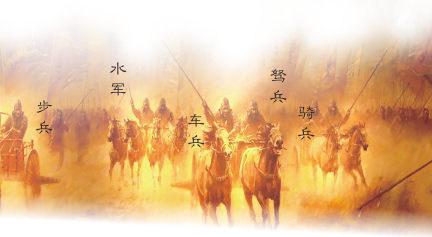
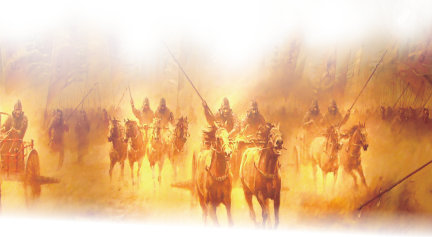
关公点兵：动效

diff --git a/public/apps/guangong/js/arm.js b/public/apps/guangong/js/arm.js
@@ -25,7 +25,7 @@ var arm = {
 		}else{
 			$('.defence-text').hide().removeClass('fadeInDown animated');
 		}
-		
+
 		//履军职任务列表
 		if($swiper.find('.jobs').length){
 			setTimeout(function(){
@@ -44,8 +44,53 @@ var arm = {
 			$('.jobs li').css({'visibility': 'hidden'}).removeClass('fadeIn animated');
 		}
 	},
+	/**
+	 * 循环动画，执行一次就好了，不用重复执行
+	 */
+	'interval': function(){
+		//兵种文字
+		if($('.arm-names').length){
+			setInterval(function(){
+				var $armNames = $('.arm-names');
+				$armNames.find('.layer').removeClass('tada animated');
+				//随机出一个0-5的整数
+				var num = Math.floor(Math.random()*6);
+				$armNames.find('.layer:eq('+num+')').addClass('tada animated');
+			}, 1000);
+		}
+
+		//摇一摇标识
+		if($('.shake').length){
+			setInterval(function(){
+				var $shake = $('.shake');
+				if($shake.hasClass('animated')){
+					$shake.removeClass('tada animated');
+				}else{
+					$shake.addClass('tada animated')
+				}
+			}, 1000);
+		}
+	},
+	'setArm': function(){
+		$.ajax({
+			'type': 'GET',
+			'url': system.url('api/arm/set'),
+			'dataType': 'json',
+			'cache': false,
+			'success': function(resp){
+				if(resp.status){
+					var $arm6 = $('#arm-6');
+					$arm6.find('.arms,.shake,.arm-names').remove();
+					$arm6.append('<div class="layer result flip animated"><img src="'+resp.data.picture.url+'"></div>');
+				}else{
+					common.toast($resp.message, 'error');
+				}
+			}
+		});
+	},
 	'init': function(){
 		this.animate();
+		this.interval();
 		common.swiper.on('SlideChangeStart', this.animate)
 	}
 };

diff --git a/public/apps/guangong/css/arm.css b/public/apps/guangong/css/arm.css
@@ -4,7 +4,7 @@
 .subtitle{top:168px;right:33px;font-size:14px;width:14px;color:rgba(0,0,0,0.8);line-height:1.2;z-index:100}
 .dadao{width:45px;height:382px;left:50%;top:50%;margin-left:-30px;margin-top:-196px}
 .title{width:20px;height:168px;left:50%;top:50%;margin-left:10px;margin-top:-25px}
-.description{bottom:50px;left:50%;margin-left:-40%;width:80%}
+.description{bottom:30px;left:50%;margin-left:-40%;width:80%}
 .description p{text-align:left;font-size:12px;line-height:1.5}
 .description p.center{text-align:center}
 .dialog-content{padding:45px 30px}
@@ -25,10 +25,15 @@
 #arm-4 .shake{width:80px;left:50%;bottom:105px;margin-left:-40px;}
 
 #arm-6 .mountain{top:0;width:100%;height:308px;left:0}
-#arm-6 .arms{width:100%;height:237px;top:50%;margin-top:-240px;left:0}
+#arm-6 .arms{width:100%;top:100px;left:0}
 #arm-6 .arm-text{width:70%;left:50%;top:50px;margin-left:-40%}
 #arm-6 .shake{width:135px;left:50%;top:50%;margin-left:-67px;margin-top:60px}
 #arm-6 .result{width:80%;left:10%;top:50%;margin-top:-102px}
+#arm-6 .bubing-text{top:163px;left:50%;margin-left:-42%}
+#arm-6 .shuijun-text{top:129px;left:50%;margin-left:-26%}
+#arm-6 .chebing-text{top:170px;left:50%;margin-left:-7%}
+#arm-6 .nubing-text{top:134px;left:50%;margin-left:12%}
+#arm-6 .qibing-text{top:165px;left:50%;margin-left:22%}
 #arm-dialog .dialog-content{background:url(../images/arm/caozhi-bg.png) no-repeat center center transparent;background-size:100% 100%}
 #arm-dialog h1{font-size:16px;margin-bottom:26px;text-align:center}
 #arm-dialog .arm-description img{width:100%}

diff --git a/application/guangong/modules/frontend/views/arm/set_arm.php b/application/guangong/modules/frontend/views/arm/set_arm.php
@@ -26,6 +26,13 @@ $this->appendCss($this->appAssets('css/arm.css'));
 			<?php }else{?>
 				<div class="layer arms"><img src="<?php echo $this->appAssets('images/arm/arms.png')?>"></div>
 				<div class="layer shake"><img src="<?php echo $this->appAssets('images/arm/shake.png')?>"></div>
+				<div class="arm-names">
+					<div class="layer bubing-text"><img src="<?php echo $this->appAssets('images/arm/bubing-text.png')?>"></div>
+					<div class="layer shuijun-text"><img src="<?php echo $this->appAssets('images/arm/shuijun-text.png')?>"></div>
+					<div class="layer qibing-text"><img src="<?php echo $this->appAssets('images/arm/qibing-text.png')?>"></div>
+					<div class="layer nubing-text"><img src="<?php echo $this->appAssets('images/arm/nubing-text.png')?>"></div>
+					<div class="layer chebing-text"><img src="<?php echo $this->appAssets('images/arm/chebing-text.png')?>"></div>
+				</div>
 			<?php }?>
 			<div class="layer arm-text"><img src="<?php echo $this->appAssets('images/arm/arm-text.png')?>"></div>
 			<div class="layer description">
@@ -36,6 +43,23 @@ $this->appendCss($this->appAssets('css/arm.css'));
 		<?php $this->renderPartial('_steps')?>
 	</div>
 </div>
+<?php $this->renderPartial('_js')?>
+<?php if(!$arm){?>
+<script src="<?php echo $this->assets('faycms/js/faycms.shake.js')?>"></script>
+<script>
+	$.shake(function(){
+		//摇一摇触发排勤务
+		if(common.swiper.activeIndex == 2){
+			arm.setArm();
+		}
+	});
+	$('.shake').on('click', function(){
+		arm.setArm();
+	})
+</script>
+<?php }else{?>
+<link type="text/css" rel="stylesheet" href="<?php echo $this->assets('css/jquery.fancybox-1.3.4.css')?>">
+<script type="text/javascript" src="<?php echo $this->assets('js/jquery.fancybox-1.3.4.pack.js')?>"></script>
 <div class="hide">
 	<div id="arm-dialog" class="dialog">
 		<div class="dialog-content">
@@ -43,35 +67,6 @@ $this->appendCss($this->appAssets('css/arm.css'));
 		</div>
 	</div>
 </div>
-<?php $this->renderPartial('_js')?>
-<link type="text/css" rel="stylesheet" href="<?php echo $this->assets('css/jquery.fancybox-1.3.4.css')?>">
-<script type="text/javascript" src="<?php echo $this->assets('js/jquery.fancybox-1.3.4.pack.js')?>"></script>
-<?php if(!$arm){?>
-<script src="<?php echo $this->assets('faycms/js/faycms.shake.js')?>"></script>
-<script>
-	$.shake(function(){
-		//摇一摇触发排勤务
-		if(common.swiper.activeIndex == 2){
-			$.ajax({
-				'type': 'GET',
-				'url': system.url('api/arm/set'),
-				'dataType': 'json',
-				'cache': false,
-				'success': function(resp){
-					if(resp.status){
-						var $arm6 = $('#arm-6');
-						$arm6.find('.arms').remove();
-						$arm6.find('.shake').remove();
-						$arm6.append('<div class="layer result"><img src="'+resp.data.picture.url+'"></div>');
-					}else{
-						common.toast($resp.message, 'error');
-					}
-				}
-			});
-		}
-	});
-</script>
-<?php }?>
 <script>
 	$('#arm-6 .result').fancybox({
 		'type': 'inline',
@@ -81,3 +76,4 @@ $this->appendCss($this->appAssets('css/arm.css'));
 		'width': '80%'
 	});
 </script>
+<?php }?>
